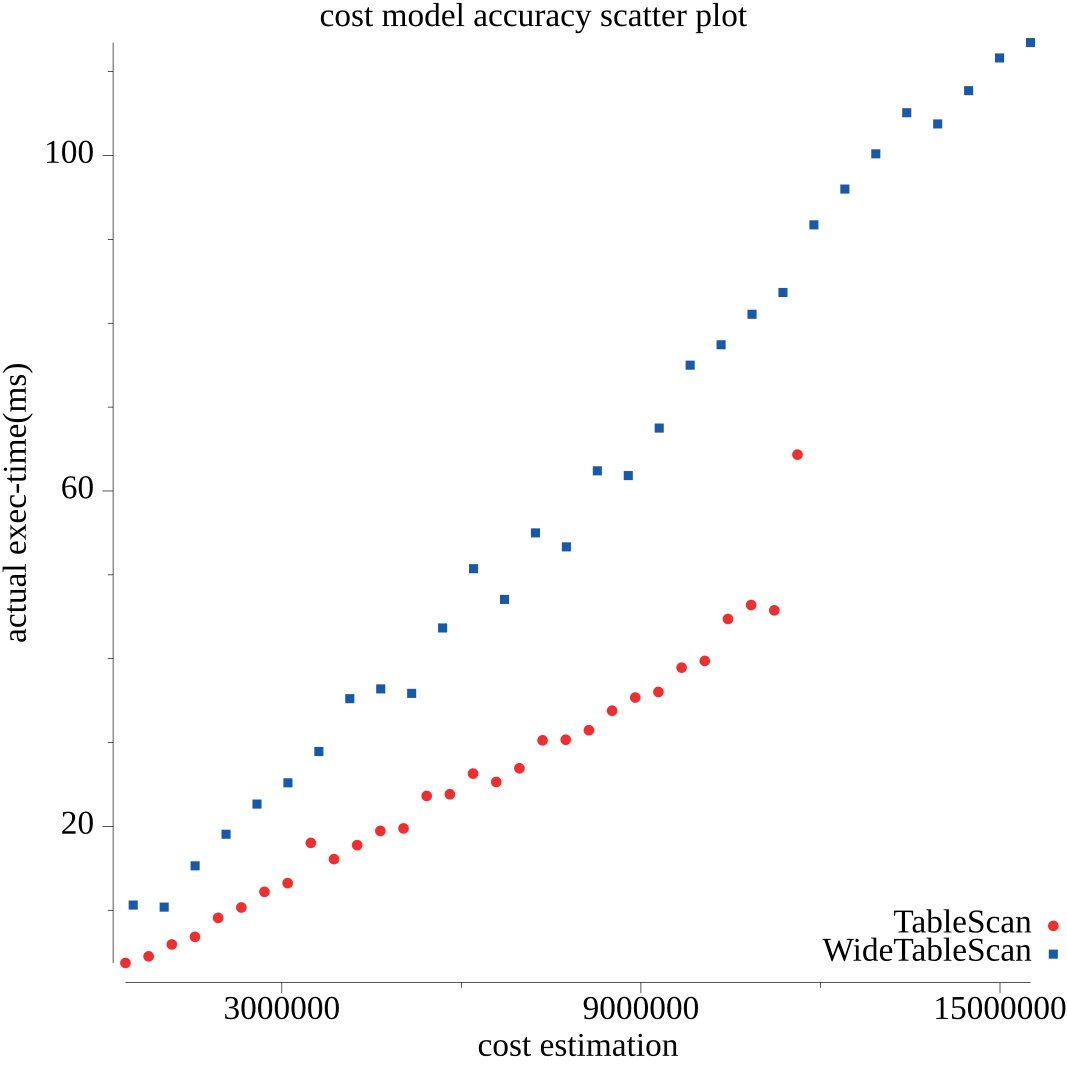
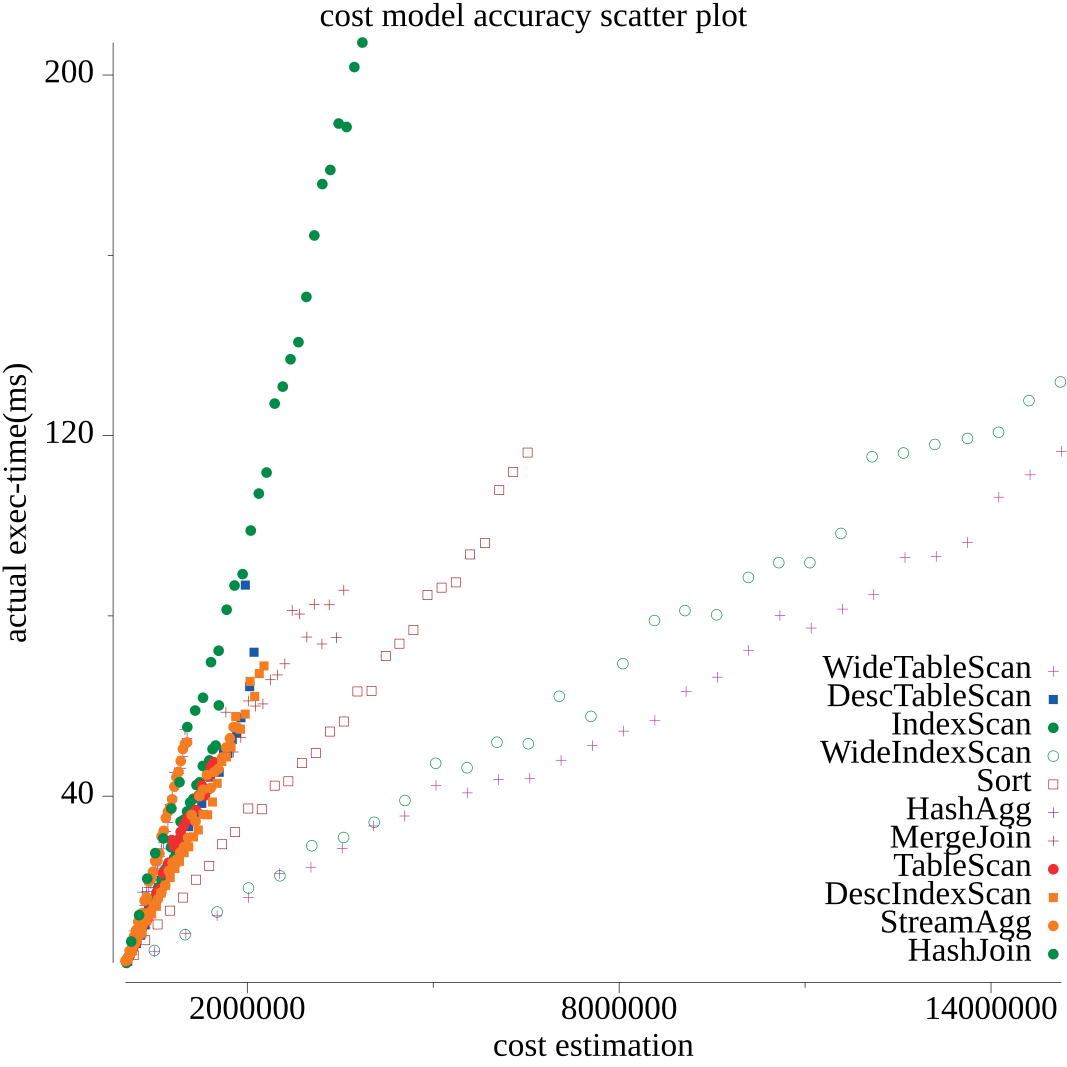
fixup

diff --git a/cost/eval_synthetic.go b/cost/eval_synthetic.go
@@ -23,19 +23,19 @@ func genSyntheticEvaluationQueries(ins tidb.Instance, db string, n int) Queries 
 	qs := make(Queries, 0, 1024)
 	qs = append(qs, genSyntheticEvaluationTableScan(ins, n)...)
 	qs = append(qs, genSyntheticEvaluationIndexScan(ins, n)...)
-	qs = append(qs, genSyntheticEvaluationIndexLookup(ins, n)...)
+	//qs = append(qs, genSyntheticEvaluationIndexLookup(ins, n)...)
 	qs = append(qs, genSyntheticEvaluationSort(ins, n)...)
 	qs = append(qs, genSyntheticEvaluationStreamAgg(ins, n)...)
 	qs = append(qs, genSyntheticEvaluationHashAgg(ins, n)...)
 	qs = append(qs, genSyntheticEvaluationHashJoin(ins, n)...)
 	qs = append(qs, genSyntheticEvaluationMergeJoin(ins, n)...)
-	qs = append(qs, genSyntheticEvaluationIndexJoin(ins, n)...)
-	qs = append(qs, genSyntheticEvaluationMPPScan(ins, n)...)
-	qs = append(qs, genSyntheticEvaluationTiFlashScan(ins, n)...)
-	qs = append(qs, genSyntheticEvaluationMPPTiDBAgg(ins, n)...)
-	qs = append(qs, genSyntheticEvaluationMPP2PhaseAgg(ins, n)...)
-	qs = append(qs, genSyntheticEvaluationMPPHJ(ins, n)...)
-	qs = append(qs, genSyntheticEvaluationMPPBCJ(ins, n)...)
+	//qs = append(qs, genSyntheticEvaluationIndexJoin(ins, n)...)
+	//qs = append(qs, genSyntheticEvaluationMPPScan(ins, n)...)
+	//qs = append(qs, genSyntheticEvaluationTiFlashScan(ins, n)...)
+	//qs = append(qs, genSyntheticEvaluationMPPTiDBAgg(ins, n)...)
+	//qs = append(qs, genSyntheticEvaluationMPP2PhaseAgg(ins, n)...)
+	//qs = append(qs, genSyntheticEvaluationMPPHJ(ins, n)...)
+	//qs = append(qs, genSyntheticEvaluationMPPBCJ(ins, n)...)
 	return qs
 }
 

diff --git a/cost/costcali.go b/cost/costcali.go
@@ -55,18 +55,18 @@ func CostCalibration() {
 
 	whiteList := []string{
 		"TableScan",
-		//"IndexScan",
+		"IndexScan",
 		"WideTableScan",
-		//"WideIndexScan",
-		//"DescTableScan",
-		//"DescIndexScan",
+		"WideIndexScan",
+		"DescTableScan",
+		"DescIndexScan",
+		"StreamAgg",
+		"HashAgg",
+		"Sort",
+		"HashJoin",
+		"MergeJoin",
 		//"IndexLookup",
 		//"WideIndexLookup",
-		//"StreamAgg",
-		//"HashAgg",
-		//"Sort",
-		//"HashJoin",
-		//"MergeJoin",
 		//"TiFlashScan",
 		//"MPPScan",
 		//"MPPTiDBAgg",
@@ -77,8 +77,10 @@ func CostCalibration() {
 	rs = filterCaliRecordsByLabel(rs, whiteList, nil)
 
 	// ====== Manual Calibration ======
-	// // (CPU, CopCPU, Net, Scan, DescScan, Mem, Seek)
-	recalculateAndDraw(rs, CostFactors{0, 0, 1, 25, 0, 0, 0})
+	// (CPU, CopCPU, Net, Scan, DescScan, Mem, Seek)
+	// (30,	30,		4,		100,	150,		0,		1.2*1e7)
+	//recalculateAndDraw(rs, &CostFactors{30, 30, 4, 100, 150, 0, 1.2 * 1e7})
+	recalculateAndDraw(rs, nil)
 
 	// ====== Automatic Regression ======
 	// (CPU, CopCPU, Net, Scan, DescScan, Mem, Seek)
@@ -87,9 +89,11 @@ func CostCalibration() {
 	//fmt.Println(ret.String())
 }
 
-func recalculateAndDraw(rs Records, factors CostFactors) {
+func recalculateAndDraw(rs Records, factors *CostFactors) {
 	for i := range rs {
-		rs[i].Cost = rs[i].CostWeights.CalCost(factors)
+		if factors != nil {
+			rs[i].Cost = rs[i].CostWeights.CalCost(*factors)
+		}
 	}
 
 	drawCostRecordsTo(rs, fmt.Sprintf("%v-%v-scatter.png", "synthetic", "calibrating"))
